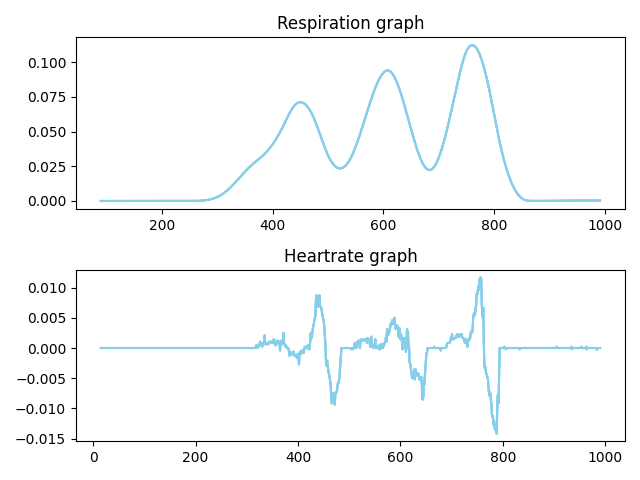
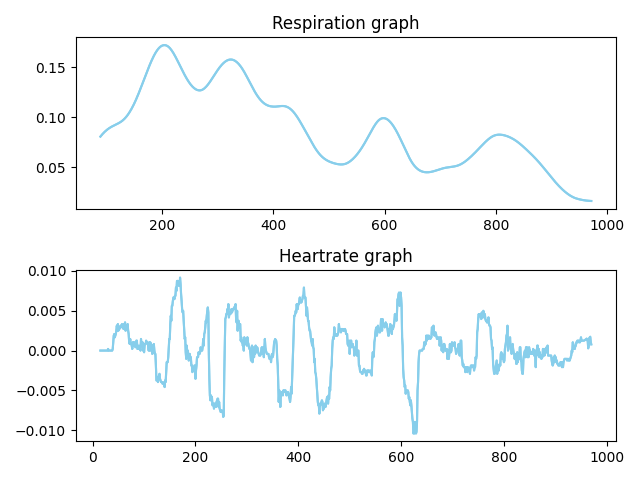
add graph

diff --git a/templates/TestPage.html b/templates/TestPage.html
@@ -79,7 +79,7 @@
         <div id = "ob"></div>
         <div id = "respiration">분당 호흡 수: -번</div>
         <div id = "heartrate">심박 수: -번</div>
-        <img stc="../graph.png?v=1"/>
+        <img stc="graph.png?v=1"/>
     </form>
 </body>
 </html>

diff --git a/main.py b/main.py
@@ -119,7 +119,7 @@ def draw_graph(respirate_graph, h_list):
     plt.title("Heartrate graph")
     
     plt.tight_layout()
-    plt.savefig("graph.png") 
+    plt.savefig("./templates/graph.png") 
               
 def differential(results):
     b_list = []
@@ -198,7 +198,7 @@ def respirationrate():
             del graph_res[0]
         if int(sec) >= 60:    
         #if int(sec) % 60 == 0 and int(sec) > 0:
-            if flag == True:
+            if (int(sec) % 60) // 5 == 0:
                 temp = np.array(graph_res)
                 graph_res = np.array(graph_res)
                 for i in range(graph_res.shape[0]):
@@ -227,9 +227,6 @@ def respirationrate():
                 h_list, heartrate = differential(graph_res)
                 lock.release()
                 graph_res = graph_res.tolist()
-                flag = False
-                continue
-            if (int(sec) % 60) // 5 == 0:
                 draw_graph(graph_result2, h_list)
         else:
             flag = True
